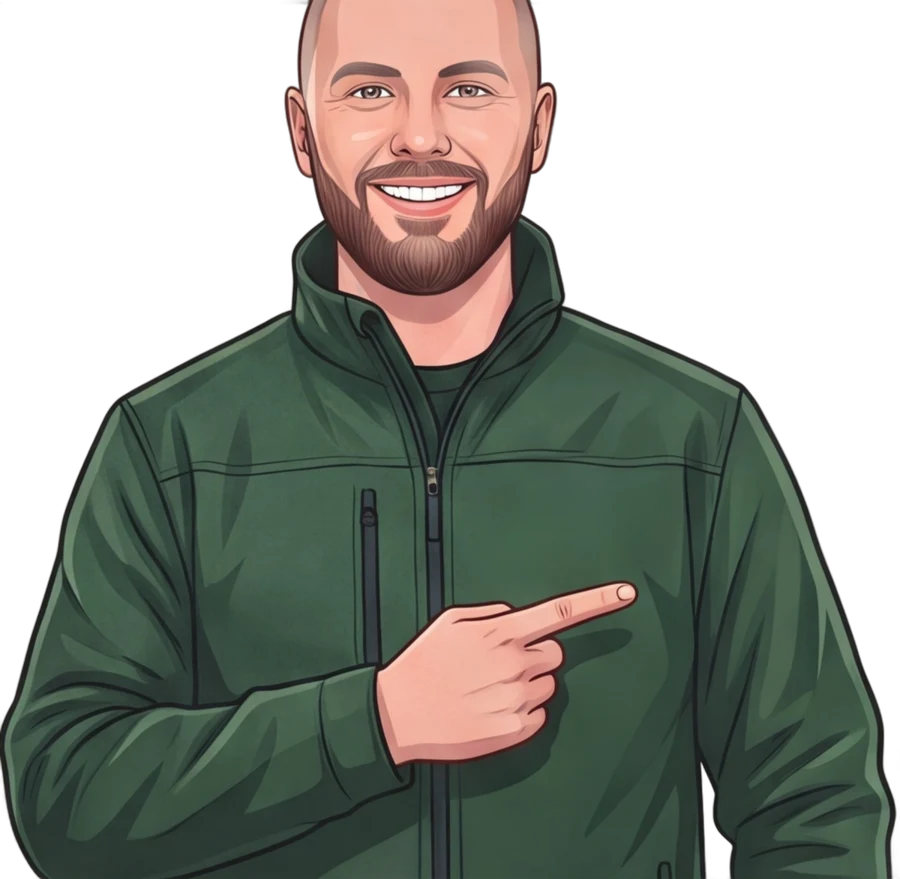
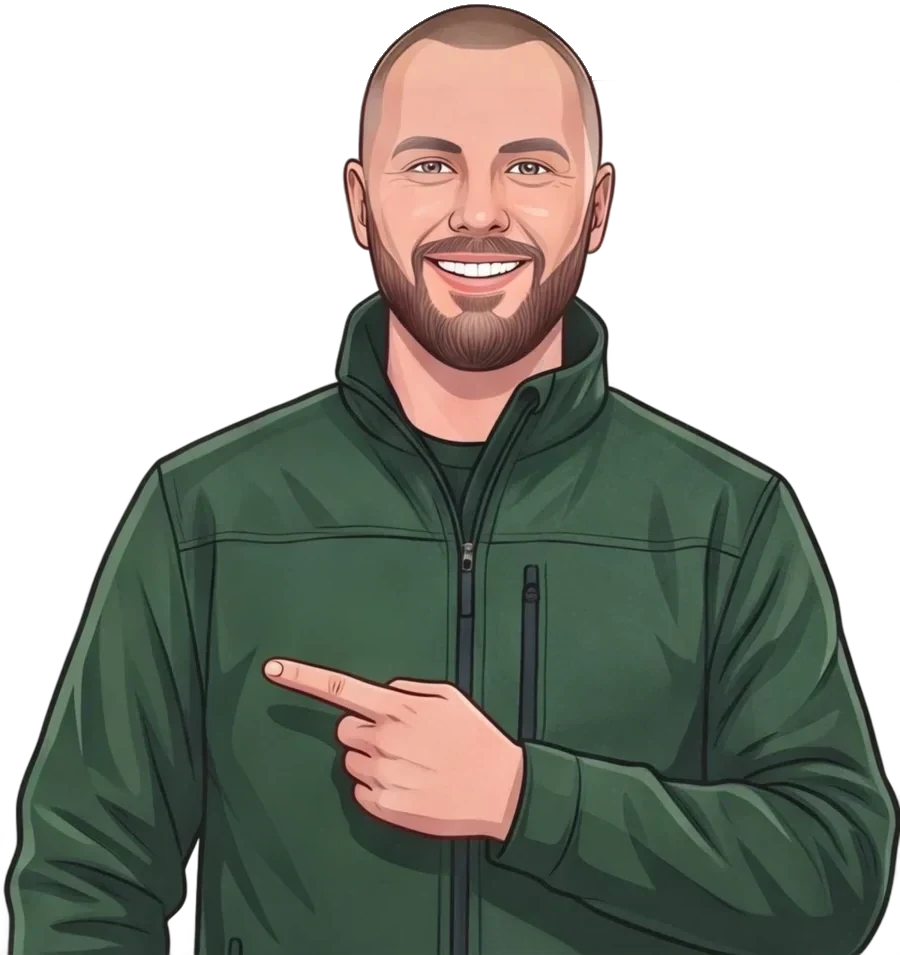
Hero, Wizard und Mobilansicht ueberarbeitet
- Hero-Figur entzerrt (img height:auto), fehlenden Kopf-Scheitel ergaenzt,
  Figur groesser, gespiegelt (zeigt zum Text), ohne Schwebe-Animation
- Hero auf Viewport-Hoehe (Desktop), Textspalte mittig und groesser
- Sprechblasen-Text kuerzer und persoenlicher
- Schriftzug-Rest und Jackenstueck aus Baum-Deko entfernt
- Wizard: abgeschnittene Karten (minmax), neues Kartenlayout fuer
  2 und 3 Spalten, KV-Nummer einzeilig, Seitenbild unten ausgeblendet
- Mobil: kompakte Leistungs- und Wizard-Karten, Ergebnis-Overflow behoben,
  Buttons volle Breite, 16px Formularschrift, engere Abstaende

Claude-Session: https://claude.ai/code/session_015uQxVVZL3u6sZL71Whm1TB

diff --git a/styles.css b/styles.css
@@ -34,7 +34,7 @@ body {
   font-size: 17px;
   overflow-x: hidden;
 }
-img { max-width: 100%; display: block; }
+img { max-width: 100%; height: auto; display: block; }
 a { color: var(--forest-mid); }
 button { font-family: inherit; cursor: pointer; }
 .wrap { width: min(var(--max), 100% - 2.4rem); margin-inline: auto; }
@@ -102,14 +102,14 @@ h3 { font-size: 1.25rem; }
 
 /* ---------- Hero ---------- */
 .hero { position: relative; overflow: hidden; padding: clamp(2rem, 6vw, 4.5rem) 0 0; }
-.hero .wrap { position: relative; z-index: 1; display: grid; grid-template-columns: 1.15fr .85fr; gap: 2rem; align-items: end; }
+.hero .wrap { position: relative; z-index: 1; display: grid; grid-template-columns: 1.15fr .85fr; gap: 1.5rem; align-items: end; }
 .hero-copy { padding-bottom: clamp(2rem, 5vw, 4rem); }
 .hero h1 span { display: block; }
+.hero .lead { margin-top: 1rem; }
 .hero h1 .q { color: var(--forest-mid); }
 .hero-ctas { display: flex; flex-wrap: wrap; gap: .8rem; margin-top: 1.6rem; }
-.hero-marco { position: relative; align-self: end; text-align: center; }
-.hero-marco img { width: min(100%, 520px); margin-inline: auto; filter: drop-shadow(0 18px 24px rgba(28,58,42,.25)); animation: float 6s ease-in-out infinite; }
-@keyframes float { 0%,100% { transform: translateY(0); } 50% { transform: translateY(-8px); } }
+.hero-marco { position: relative; align-self: end; width: 100%; text-align: center; }
+.hero-marco img { width: min(135%, 720px); max-width: none; margin-left: auto; margin-right: -6%; filter: drop-shadow(0 18px 24px rgba(28,58,42,.25)); }
 
 /* Sprechblase */
 .bubble {
@@ -130,13 +130,35 @@ h3 { font-size: 1.25rem; }
 .trust svg { width: 22px; height: 22px; flex: none; color: var(--sand); }
 @media (max-width: 900px) {
   .hero .wrap { grid-template-columns: 1fr; }
-  .hero-marco { order: -1; }
-  .hero-marco img { width: min(78%, 380px); }
+  .hero-marco { order: -1; justify-self: center; width: 100%; }
+  .hero-marco img { width: min(90%, 440px); margin-inline: auto; }
   .bubble::before, .bubble::after { right: auto; left: 60px; top: -24px; border: 12px solid transparent; border-bottom-color: var(--forest); border-top: 0; }
   .bubble::after { top: -20px; border-bottom-color: var(--cream); }
   .trust .wrap { grid-template-columns: 1fr 1fr; }
 }
 @media (max-width: 480px) { .trust .wrap { grid-template-columns: 1fr; gap: .5rem; } }
+
+/* Hero auf Viewport-Hoehe (Desktop): Topbar + Header = ca. 122px */
+@media (min-width: 861px) {
+  .hero { --chrome: 122px; height: calc(100svh - var(--chrome)); min-height: 560px; max-height: 980px; }
+  .hero .wrap { height: 100%; }
+  .hero-marco img { height: calc(100svh - var(--chrome) - clamp(2rem, 6vw, 4.5rem)); max-height: 800px; object-fit: contain; object-position: center bottom; }
+}
+@media (min-width: 861px) {
+  .hero-copy { align-self: center; padding-bottom: 0; padding-top: 0; }
+  .bubble { max-width: 600px; }
+}
+@media (min-width: 861px) and (max-height: 900px) {
+  .hero { padding-top: 1.5rem; }
+  .bubble { padding: 1.1rem 1.3rem 1.15rem; margin-bottom: 1.3rem; }
+  .bubble .hi { font-size: 1.9rem; }
+  .bubble p { font-size: 1.02rem; }
+  .bubble .sig { font-size: 1.3rem; margin-top: .5rem; }
+  .hero h1 { font-size: clamp(2.4rem, 5vw, 3.9rem); }
+  .hero .lead { font-size: 1.15rem; margin-top: .8rem; }
+  .hero-ctas { margin-top: 1.3rem; }
+  .hero-ctas .btn-lg { min-height: 58px; padding: .9rem 1.8rem; font-size: 1.08rem; }
+}
 
 /* ---------- Sections ---------- */
 .section { position: relative; padding: clamp(3.2rem, 8vw, 6rem) 0; }
@@ -174,21 +196,30 @@ h3 { font-size: 1.25rem; }
 .wizard-top .step-label { font-weight: 900; color: var(--forest); font-size: .95rem; }
 .progress { flex: 1; height: 8px; background: rgba(28,58,42,.15); border-radius: 99px; overflow: hidden; max-width: 260px; }
 .progress span { display: block; height: 100%; background: var(--leaf); border-radius: 99px; transition: width .35s ease; }
-.wizard-body { padding: clamp(1.3rem, 3vw, 2.2rem); min-height: 380px; }
+.wizard-body { padding: clamp(1.3rem, 3vw, 2.2rem); min-height: 320px; }
 .step { animation: stepIn .35s ease both; }
 @keyframes stepIn { from { opacity: 0; transform: translateX(16px); } to { opacity: 1; transform: none; } }
 .step h3 { font-size: clamp(1.35rem, 2.4vw, 1.75rem); margin-bottom: .35rem; }
 .step .hint { color: var(--muted); margin-bottom: 1.3rem; }
 
 .choices { display: grid; gap: .8rem; }
-.choices.cols-3 { grid-template-columns: repeat(3, 1fr); }
-.choices.cols-2 { grid-template-columns: repeat(2, 1fr); }
+.choices.cols-3 { grid-template-columns: repeat(3, minmax(0, 1fr)); }
+.choices.cols-2 { grid-template-columns: repeat(2, minmax(0, 1fr)); }
 @media (max-width: 680px) { .choices.cols-3, .choices.cols-2 { grid-template-columns: 1fr; } }
 .choice {
   position: relative; display: flex; gap: .9rem; align-items: flex-start; text-align: left;
   background: var(--paper); border: 2px solid var(--line); border-radius: 16px; padding: 1rem 1.05rem;
-  transition: border-color .15s, background .15s, transform .15s; min-height: 64px; width: 100%;
+  transition: border-color .15s, background .15s, transform .15s; min-height: 64px; width: 100%; min-width: 0;
 }
+.choice:has(.check) { padding-right: 2.6rem; }
+/* Drei-Spalten-Karten: Icon oben, Text darunter, Preis unten */
+.choices.cols-3 .choice { flex-direction: column; align-items: stretch; gap: .7rem; padding: 1.05rem 1.1rem 1.1rem; }
+.choices.cols-3 .choice:has(.check) { padding-right: 1.1rem; }
+.choices.cols-3 .choice .price { margin-left: 0; margin-top: auto; padding-top: .7rem; border-top: 1px solid var(--line); text-align: left; font-size: 1rem; align-self: stretch; }
+/* Zwei-Spalten-Karten: Icon links, Titel und Preis untereinander */
+.choices.cols-2 .choice { display: grid; grid-template-columns: auto minmax(0, 1fr); align-items: start; align-content: start; column-gap: .9rem; row-gap: .3rem; }
+.choices.cols-2 .choice .ic { grid-row: 1 / span 2; }
+.choices.cols-2 .choice .price { grid-column: 2; margin-left: 0; align-self: start; font-size: .92rem; }
 .choice:hover { border-color: var(--leaf); transform: translateY(-2px); }
 .choice[aria-pressed="true"], .choice.on { border-color: var(--forest); background: var(--cream); box-shadow: 0 0 0 3px rgba(61,122,82,.18); }
 .choice .ic { width: 42px; height: 42px; border-radius: 12px; background: var(--forest); color: #fff; display: grid; place-items: center; flex: none; }
@@ -218,20 +249,22 @@ h3 { font-size: 1.25rem; }
 .wizard-nav { display: flex; justify-content: space-between; align-items: center; gap: 1rem; padding: 1rem clamp(1.3rem, 3vw, 2.2rem) 1.4rem; border-top: 1px solid var(--line); background: #fff; }
 .link-btn { background: none; border: 0; font-weight: 800; color: var(--muted); padding: .5rem 0; text-decoration: underline; text-underline-offset: 3px; }
 .link-btn:hover { color: var(--forest); }
+.link-btn:empty { display: none; }
+.wizard-nav .btn { margin-left: auto; }
 
 /* Seitenleiste neben dem Rechner */
 .wizard-side { position: sticky; top: 100px; }
 .wizard-side .card { text-align: center; padding: 1.2rem 1.2rem 1.4rem; }
-.wizard-side img { width: 70%; margin: -.5rem auto .6rem; }
+.wizard-side img { width: 70%; margin: -.5rem auto .6rem; -webkit-mask-image: linear-gradient(#000 70%, transparent 100%); mask-image: linear-gradient(#000 70%, transparent 100%); }
 .wizard-side .hand { font-size: 1.5rem; line-height: 1.15; color: var(--forest); }
 .wizard-side p { font-size: .95rem; color: var(--muted); margin-top: .5rem; }
 
 /* Kostenvoranschlag (Rechnungs-Look) */
 .estimate { border: 2px solid var(--forest); border-radius: 18px; overflow: hidden; background: #fff; }
 .estimate-head { display: flex; justify-content: space-between; align-items: flex-start; gap: 1rem; padding: 1.1rem 1.3rem; background: var(--forest); color: #fff; }
-.estimate-head b { font-size: 1.15rem; display: block; }
+.estimate-head b { font-size: 1.08rem; display: block; line-height: 1.25; margin-bottom: .2rem; }
 .estimate-head small { color: rgba(255,255,255,.75); font-weight: 700; display: block; }
-.estimate-head .no { text-align: right; font-size: .8rem; font-weight: 800; color: var(--sand); letter-spacing: .1em; text-transform: uppercase; }
+.estimate-head .no { text-align: right; font-size: .78rem; font-weight: 800; color: var(--sand); letter-spacing: .08em; text-transform: uppercase; white-space: nowrap; flex: none; }
 .estimate table { width: 100%; border-collapse: collapse; }
 .estimate td { padding: .75rem 1.3rem; border-bottom: 1px solid var(--line); vertical-align: top; font-size: .98rem; }
 .estimate td:last-child { text-align: right; white-space: nowrap; font-weight: 800; font-variant-numeric: tabular-nums; }
@@ -245,8 +278,9 @@ h3 { font-size: 1.25rem; }
 .estimate-note b { color: var(--forest); }
 .estimate-note p + p { margin-top: .5rem; }
 
-.result-grid { display: grid; grid-template-columns: 1.1fr .9fr; gap: 1.6rem; align-items: start; margin-top: 1rem; }
-@media (max-width: 800px) { .result-grid { grid-template-columns: 1fr; } }
+.result-grid { display: grid; grid-template-columns: minmax(0, 1.1fr) minmax(0, .9fr); gap: 1.6rem; align-items: start; margin-top: 1rem; }
+.result-grid > * { min-width: 0; }
+@media (max-width: 800px) { .result-grid { grid-template-columns: minmax(0, 1fr); } }
 .lead-box { background: var(--cream); border: 2px solid var(--forest); border-radius: 18px; padding: 1.3rem; }
 .lead-box h4 { font-size: 1.2rem; color: var(--forest); margin-bottom: .3rem; font-weight: 900; }
 .lead-box .hint { color: var(--muted); font-size: .93rem; margin-bottom: 1rem; }
@@ -279,7 +313,7 @@ h3 { font-size: 1.25rem; }
 .quote { border-left: 4px solid var(--sand); padding: .2rem 0 .2rem 1.2rem; font-family: var(--hand); font-size: 1.7rem; line-height: 1.2; color: #fff; }
 .quote small { display: block; font-family: var(--font); font-size: .85rem; color: rgba(255,255,255,.65); font-weight: 700; margin-top: .3rem; }
 .why-marco { text-align: center; }
-.why-marco img { width: min(100%, 460px); margin-inline: auto; filter: drop-shadow(0 20px 30px rgba(0,0,0,.4)); }
+.why-marco img { width: min(100%, 460px); margin-inline: auto; filter: drop-shadow(0 20px 30px rgba(0,0,0,.4)); -webkit-mask-image: linear-gradient(#000 78%, transparent 100%); mask-image: linear-gradient(#000 78%, transparent 100%); }
 @media (max-width: 860px) { .why { grid-template-columns: 1fr; } .why-marco img { width: min(80%, 360px); } }
 
 /* ---------- FAQ ---------- */
@@ -322,7 +356,6 @@ footer .legal a { color: rgba(255,255,255,.75); margin: 0 .5rem; }
 .reveal.in { opacity: 1; transform: none; }
 @media (prefers-reduced-motion: reduce) {
   .reveal { opacity: 1; transform: none; transition: none; }
-  .hero-marco img { animation: none; }
   .step { animation: none; }
 }
 
@@ -332,3 +365,49 @@ footer .legal a { color: rgba(255,255,255,.75); margin: 0 .5rem; }
 .legal-page h2 { font-size: 1.3rem; margin: 1.8rem 0 .5rem; }
 .legal-page p, .legal-page li { color: var(--ink); margin-bottom: .6rem; }
 .legal-page ul { padding-left: 1.2rem; }
+
+/* ---------- Mobil (Handy, bis 680px) ---------- */
+@media (max-width: 680px) {
+  /* Hero: Figur kleiner, Sprechblase kompakter, Buttons volle Breite */
+  .hero { padding-top: 1.2rem; }
+  .hero-marco img { width: min(72%, 290px); }
+  .bubble { padding: 1rem 1.1rem 1.1rem; margin-bottom: 1.2rem; }
+  .bubble .hi { font-size: 1.6rem; }
+  .bubble p { font-size: .98rem; }
+  .bubble .sig { font-size: 1.2rem; }
+  .hero-copy { padding-bottom: 2rem; }
+  .hero-ctas .btn-lg { width: 100%; justify-content: center; }
+  /* Leistungen: kompakte Zeilen-Karten statt hoher Kacheln */
+  .service { display: grid; grid-template-columns: 52px minmax(0, 1fr); column-gap: .9rem; text-align: left; padding: 1rem 1.1rem; align-items: center; }
+  .service .icon-circle { width: 52px; height: 52px; margin: 0; grid-row: 1 / span 3; }
+  .service .icon-circle svg { width: 26px; height: 26px; }
+  .service h3 { font-size: 1.15rem; }
+  .service p { font-size: .93rem; }
+  .service .tag { margin-top: .5rem; justify-self: start; }
+  /* Wizard: Karten als Zeilen mit Icon links */
+  .wizard-body { min-height: 0; }
+  .choices { gap: .6rem; }
+  .choices.cols-3 .choice { display: grid; grid-template-columns: auto minmax(0, 1fr); align-items: start; align-content: start; column-gap: .8rem; row-gap: .25rem; padding: .9rem 1rem; }
+  .choices.cols-3 .choice .ic { grid-row: 1 / span 2; width: 38px; height: 38px; }
+  .choices.cols-3 .choice .ic svg { width: 22px; height: 22px; }
+  .choices.cols-3 .choice .price { grid-column: 2; margin-top: 0; padding-top: 0; border-top: 0; font-size: .92rem; }
+  .choices.cols-2 .choice { padding: .9rem 1rem; }
+  .choices.cols-3 .choice:has(.check), .choices.cols-2 .choice:has(.check) { padding-right: 2.4rem; }
+  .choice b { font-size: 1rem; }
+  .step h3 { font-size: 1.3rem; }
+  .chip { min-height: 44px; padding: .55rem 1rem; }
+  .wizard-nav { flex-wrap: wrap; }
+  .wizard-nav .btn { flex: 1 1 auto; justify-content: center; }
+  /* Kostenvoranschlag und Formular */
+  .estimate-head { flex-direction: column; gap: .4rem; padding: 1rem .9rem; }
+  .estimate-head .no { text-align: left; }
+  .estimate td { padding: .7rem .9rem; }
+  .estimate-note { padding-left: .9rem; padding-right: .9rem; }
+  .lead-box { padding: 1.1rem; }
+  .lead-box input, .lead-box textarea { font-size: 16px; }
+  /* Abschnitte kompakter, CTA-Buttons volle Breite */
+  .section { padding: 2.6rem 0; }
+  .trust .wrap { padding: .9rem 0; }
+  .cta-band .actions .btn { width: 100%; justify-content: center; }
+  .lead-box .btn, .hero-ctas .btn, .cta-band .btn { white-space: normal; }
+}

diff --git a/index.html b/index.html
@@ -77,19 +77,19 @@
     <div class="hero-copy">
       <div class="bubble">
         <div class="hi">Hallo! Schön, dass Sie da sind.</div>
-        <p>Ich bin <strong>Marco Erlenbach</strong> aus Pech. Sie kennen das: Der Rasen wartet, die Hecke wuchert, und am Wochenende hat man eigentlich was Besseres vor. Genau dafür bin ich da.</p>
+        <p>Ich bin <strong>Marco Erlenbach</strong>, Hausmeisterservice aus Wachtberg-Pech. Rasen, Hecke, Laub, Winterdienst, kleine Reparaturen: Was rund ums Haus anfällt, mache ich. Persönlich und aus der Nachbarschaft.</p>
         <div class="sig">Ihr Nachbar packt an.</div>
       </div>
       <span class="eyebrow">Hausmeisterservice · Wachtberg · Bad Godesberg · Meckenheim</span>
       <h1><span class="q">Rund ums Haus?</span><span>RundUmWachtberg!</span></h1>
-      <p class="lead" style="margin-top:1rem">Gartenpflege, Winterdienst und Hausmeisterdienste zum Festpreis, mit mir persönlich. In 60 Sekunden wissen Sie, was es kostet.</p>
+      <p class="lead">Gartenpflege, Winterdienst und Hausmeisterdienste zum Festpreis, mit mir persönlich. In 60 Sekunden wissen Sie, was es kostet.</p>
       <div class="hero-ctas">
         <a class="btn btn-primary btn-lg" href="#rechner">Kostenvoranschlag in 60 Sekunden</a>
         <a class="btn btn-wa btn-lg" data-wa="Hallo Marco, ich komme über Ihren Flyer und hätte gern ein Angebot für " href="#" target="_blank" rel="noopener"><svg viewBox="0 0 24 24" fill="currentColor"><path d="M12 2a10 10 0 00-8.6 15.1L2 22l5-1.3A10 10 0 1012 2zm0 18.2a8.2 8.2 0 01-4.2-1.2l-.3-.2-3 .8.8-2.9-.2-.3A8.2 8.2 0 1112 20.2zm4.5-6.1c-.2-.1-1.5-.7-1.7-.8s-.4-.1-.6.1-.6.8-.8 1c-.1.2-.3.2-.5.1a6.7 6.7 0 01-3.3-2.9c-.3-.4.3-.4.7-1.3.1-.2 0-.3 0-.4l-.8-1.8c-.2-.5-.4-.4-.6-.4h-.5a1 1 0 00-.7.3 3 3 0 00-.9 2.2 5.2 5.2 0 001.1 2.7 11.8 11.8 0 004.5 4c1.7.7 2.3.8 3.1.6a2.7 2.7 0 001.8-1.2 2.2 2.2 0 00.1-1.2c0-.1-.2-.2-.4-.3z"/></svg>Direkt per WhatsApp</a>
       </div>
     </div>
     <div class="hero-marco">
-      <img src="assets/marco-point.webp" alt="Marco Erlenbach, Inhaber von RundUmWachtberg, als Cartoon" width="900" height="879" fetchpriority="high">
+      <img src="assets/marco-point.webp" alt="Marco Erlenbach, Inhaber von RundUmWachtberg, als Cartoon" width="900" height="955" fetchpriority="high">
     </div>
   </div>
 </section>
